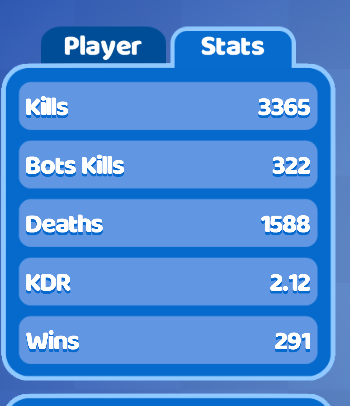
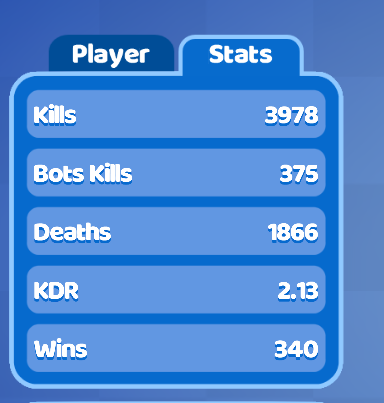
Added blesses45, ElJulen, SirBotsAlot, SMASH BOI, WorstDriver. Updated BAMerica, Bowser, FastNFurious, Fubster, golu, RastaQueen

diff --git a/playerList.js b/playerList.js
@@ -119,7 +119,7 @@ let player = [
      8,
      '5.20.2021'],
     ['Armario.jpg',
-     'Armario' + newPlayer,
+     'Armario',
      38,
      1550,
      63,
@@ -156,13 +156,13 @@ let player = [
      '5.22.2021'],
     ['BAMerica.png',
      'BAM\'erica',
-     308,
-     10993,
+     324,
+     11194,
      582,
-     6555,
-     '1.68',
-     8,
-     '5.27.2021'],
+     6640,
+     '1.69',
+     9,
+     '5.28.2021'],
     ['Billy.png',
      'Billy',
      25,
@@ -172,6 +172,15 @@ let player = [
      '1.81',
      7,
      '5.25.2021'],
+    ['blesses45.png',
+     'blesses45' + newPlayer,
+     185,
+     2411,
+     291,
+     1494,
+     '1.61',
+     '',
+     '5.28.2021'],
     ['BottyMcBotFace.png',
      'BottyMcBotFace',
      325,
@@ -183,13 +192,13 @@ let player = [
      '5.19.2021'],
     ['Bowser.png',
      'Bowser',
-     1926,
-     27823,
-     9059,
-     14754,
-     '1.89',
+     1963,
+     28427,
+     9072,
+     14983,
+     '1.90',
      13,
-     '5.21.2021'],
+     '5.28.2021'],
     ['brandoom500.png',
      'brandoom500',
      167,
@@ -298,6 +307,15 @@ let player = [
      '3.10',
      '',
      ''],
+    ['ElJulen.png',
+     'ElJulen' + newPlayer,
+     22,
+     353,
+     3,
+     204,
+     '1.73',
+     '',
+     '5.28.2021'],
     ['FancyCarrot.png',
      'FancyCarrot',
      150,
@@ -309,13 +327,13 @@ let player = [
      '5.21.2021'],
     ['FastNFurious.png',
      'FastNFurious',
-     68,
-     1183,
-     63,
-     1196,
-     '0.99',
-     11,
-     '5.24.2021'],
+     100,
+     1721,
+     88,
+     1704,
+     '1.01',
+     12,
+     '5.28.2021'],
     ['Forward.png',
      'Forward',
      725,
@@ -336,13 +354,13 @@ let player = [
      ''],
     ['Fubster.png',
      'Fubster',
-     600,
-     11049,
-     65,
-     7196,
-     '1.54',
-     13,
-     '5.27.2021'],
+     623,
+     11486,
+     67,
+     7427,
+     '1.55',
+     14,
+     '5.28.2021'],
     ['GANPATJAAT.png',
      'GANPATJAAT',
      3501,
@@ -390,13 +408,13 @@ let player = [
      '5.17.2021'],
     ['golu.png',
      'golu',
-     2158,
-     32576,
-     1755,
-     19314,
-     '1.69',
-     15,
-     '5.21.2021'],
+     2251,
+     34115,
+     1765,
+     20256,
+     '1.68',
+     16,
+     '5.28.2021'],
     ['grunwalski.png',
      'grunwalski',
      4337,
@@ -542,7 +560,7 @@ let player = [
      '',
      ''],
     ['LMAO.png',
-     'LMAO' + newPlayer,
+     'LMAO',
      22,
      403,
      113,
@@ -885,13 +903,13 @@ let player = [
      ''],
     ['RastaQueen.png',
      'RastaQueen',
-     291,
-     3365,
-     322,
-     1588,
-     '2.12',
+     340,
+     3978,
+     375,
+     1866,
+     '2.13',
      '',
-     ''],
+     '5.28.2021'],
      ['REDDY.png',
      'REDDY',
      1820,
@@ -982,6 +1000,15 @@ let player = [
      '1.55',
      '',
      ''],
+    ['SirBotsAlot2.png',
+     'SirBotsAlot' + newPlayer,
+     502,
+     5209,
+     702,
+     2492,
+     '2.09',
+     12,
+     '5.28.2021'],
     ['SirBotsalot.png',
      'SirBotsalot',
      445,
@@ -1000,6 +1027,15 @@ let player = [
      '1.50',
      9,
      '5.17.2021'],
+    ['SMASH BOI.png',
+     'SMASH BOI' + newPlayer,
+     545,
+     7928,
+     298,
+     5669,
+     '1.40',
+     15,
+     '5.28.2021'],
     ['SmashKarts.png',
      'SmashKarts',
      37,
@@ -1064,7 +1100,7 @@ let player = [
      16,
      '5.24.2021'],
     ['SONICTHEDOGE.png',
-     'SONICTHEDOGE' + newPlayer,
+     'SONICTHEDOGE',
      5,
      358,
      1,
@@ -1154,7 +1190,7 @@ let player = [
      13,
      '5.27.2021'],
     ['Toreja.jpg',
-     'Toreja' + newPlayer,
+     'Toreja',
      53,
      1191,
      12,
@@ -1207,8 +1243,17 @@ let player = [
      '1.50',
      '',
      '5.17.2021'],
+    ['WorstDriver.png',
+     'WorstDriver' + newPlayer,
+     198,
+     3109,
+     62,
+     1744,
+     '1.78',
+     '',
+     '5.28.2021'],
     ['x3m3x.png',
-     'x3m3x' + newPlayer,
+     'x3m3x',
      485,
      7352,
      325,
